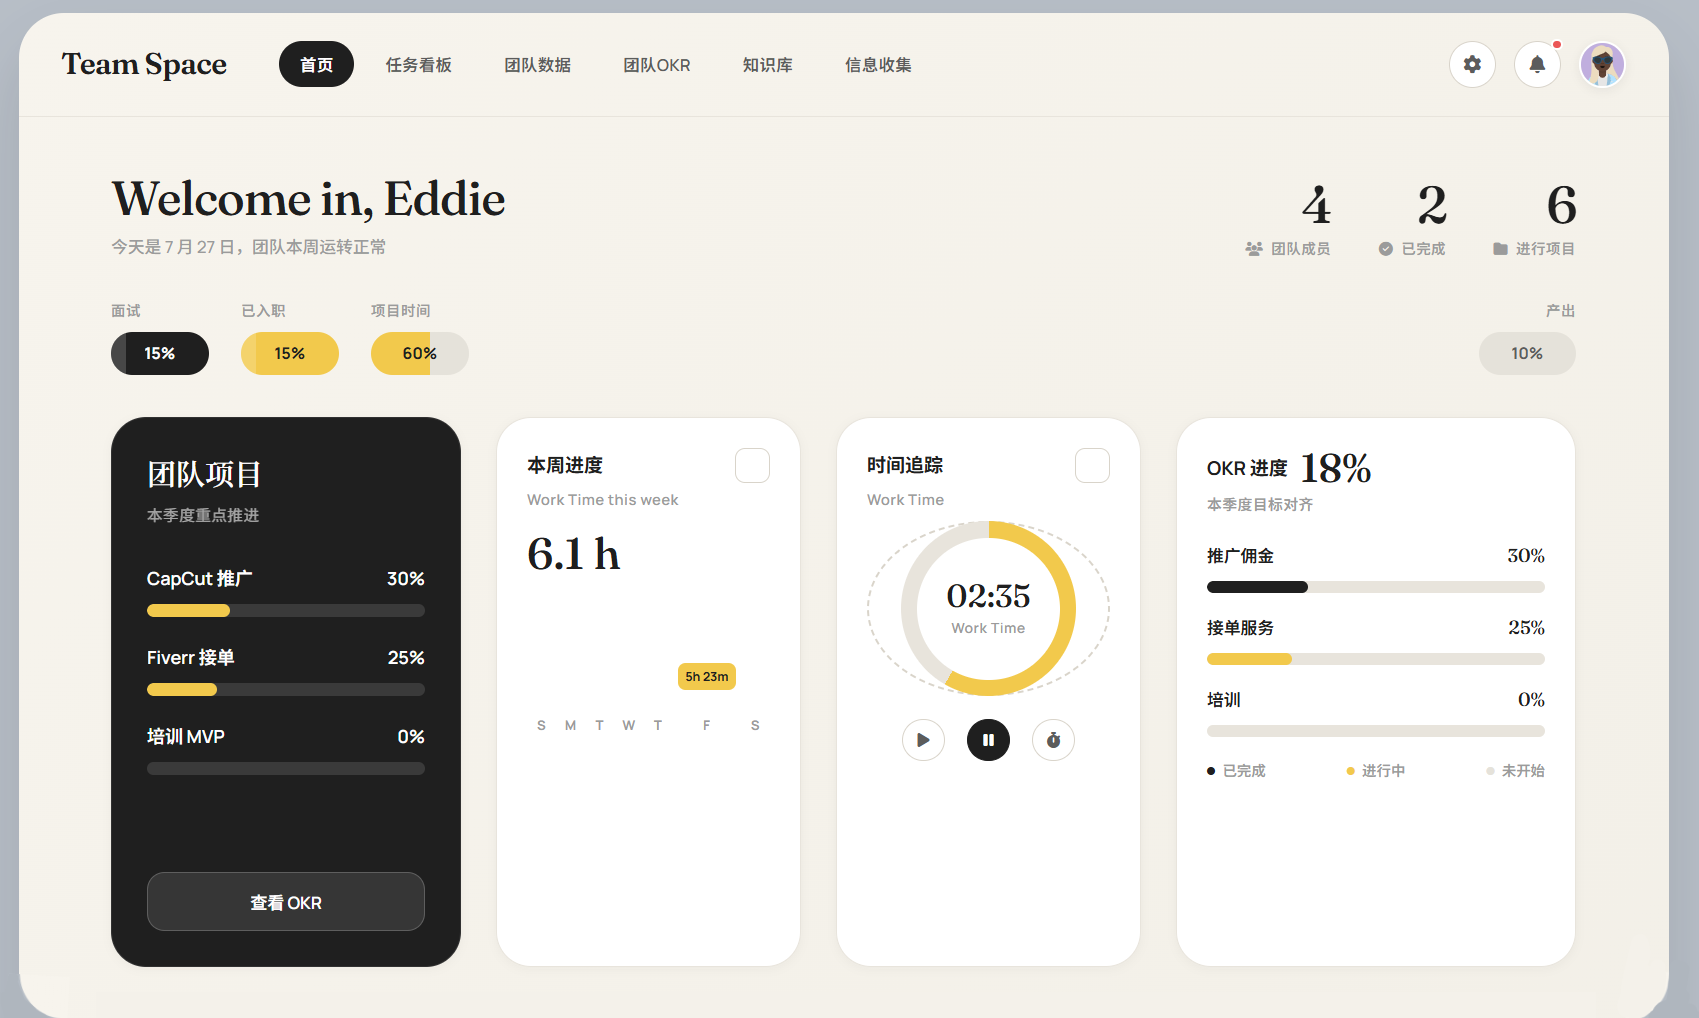
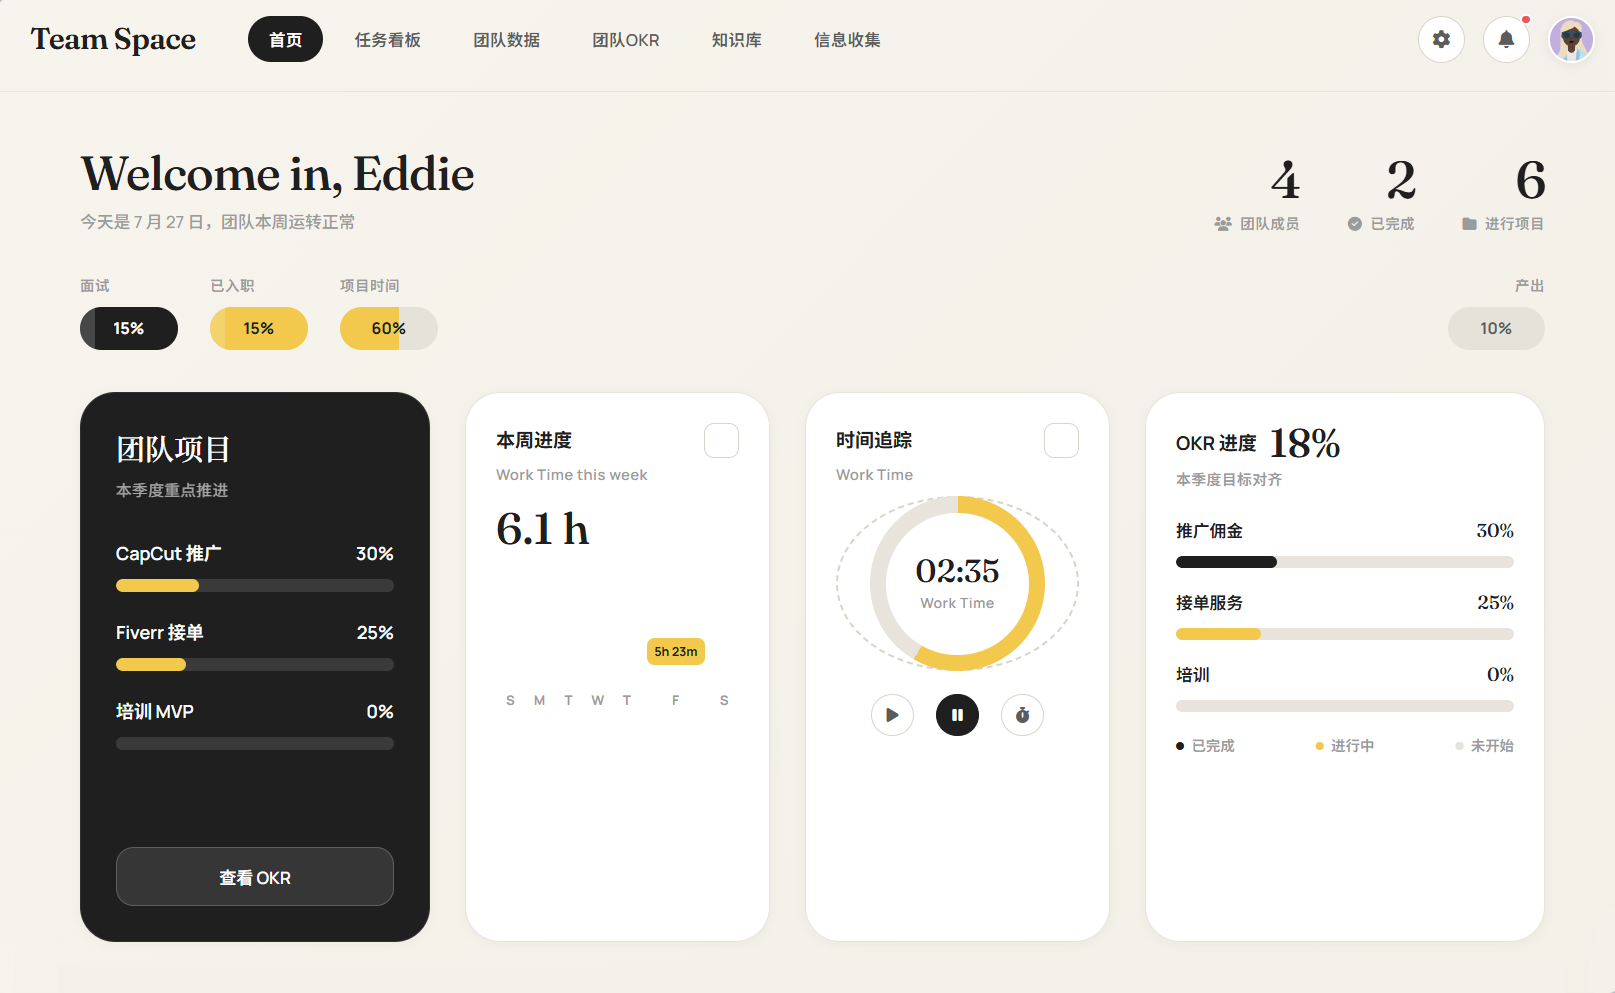
update

diff --git a/src/pages/Design.tsx b/src/pages/Design.tsx
@@ -13,7 +13,7 @@ type Project = {
   accent: string; // tailwind gradient classes for fallback cover
   zh: { tagline: string; desc: string; role: string };
   en: { tagline: string; desc: string; role: string };
-  stack: string[];
+  stack: { zh: string[]; en: string[] };
 };
 
 const PROJECTS: Project[] = [
@@ -33,7 +33,7 @@ const PROJECTS: Project[] = [
       desc: "Income, budget and assets in one calm mobile interface — see where the money goes at a glance.",
       role: "Product design · Front-end · Visual system",
     },
-    stack: ["PWA", "移动端优先", "数据可视化", "响应式"],
+    stack: { zh: ["PWA", "移动端优先", "数据可视化", "响应式"], en: ["PWA", "Mobile-first", "Data viz", "Responsive"] },
   },
   {
     slug: "ieng",
@@ -51,7 +51,7 @@ const PROJECTS: Project[] = [
       desc: "Daily practice turned into a lightweight, stickable product — focused, immersive input and feedback.",
       role: "Product design · Interaction · Front-end",
     },
-    stack: ["PWA", "微交互", "沉浸式", "跨端"],
+    stack: { zh: ["PWA", "微交互", "沉浸式", "跨端"], en: ["PWA", "Micro-interactions", "Immersive", "Cross-platform"] },
   },
   {
     slug: "team",
@@ -69,7 +69,7 @@ const PROJECTS: Project[] = [
       desc: "A task and collaboration hub for small teams — funneling feeds, progress and ownership into one panel.",
       role: "Information architecture · UI · Front-end",
     },
-    stack: ["Web App", "看板", "协作", "组件化"],
+    stack: { zh: ["Web App", "看板", "协作", "组件化"], en: ["Web App", "Kanban", "Collaboration", "Component-based"] },
   },
   {
     slug: "trip-manager",
@@ -87,7 +87,7 @@ const PROJECTS: Project[] = [
       desc: "Break a trip into schedulable days, places and budget — see the whole picture while planning.",
       role: "Prototyping · UX · Front-end",
     },
-    stack: ["Web App", "时间线", "地图", "迭代中"],
+    stack: { zh: ["Web App", "时间线", "地图", "迭代中"], en: ["Web App", "Timeline", "Map", "WIP"] },
   },
   {
     slug: "trip2bki",
@@ -105,7 +105,7 @@ const PROJECTS: Project[] = [
       desc: "A second take on travel product: lighter logging and smoother sharing, probing a different information structure.",
       role: "Concept design · UI exploration · Front-end",
     },
-    stack: ["Web App", "实验性", "轻量", "迭代中"],
+    stack: { zh: ["Web App", "实验性", "轻量", "迭代中"], en: ["Web App", "Experimental", "Lightweight", "WIP"] },
   },
 ];
 
@@ -199,7 +199,7 @@ export default function Design() {
                     <p className="text-sm text-ink-muted leading-relaxed mb-4">{copy.desc}</p>
 
                     <div className="flex flex-wrap gap-1.5 mb-4">
-                      {p.stack.map((s) => (
+                      {p.stack[lang].map((s) => (
                         <span
                           key={s}
                           className="text-[11px] font-medium text-ink-muted bg-surface-alt border border-border px-2.5 py-1 rounded-full"
@@ -269,7 +269,7 @@ export default function Design() {
                   </div>
                   <p className="text-sm text-ink-muted leading-relaxed mb-4">{copy.desc}</p>
                   <div className="flex flex-wrap gap-1.5 mb-4">
-                    {p.stack.map((s) => (
+                    {p.stack[lang].map((s) => (
                       <span
                         key={s}
                         className="text-[11px] font-medium text-ink-muted bg-surface-alt border border-border px-2.5 py-1 rounded-full"

diff --git a/src/components/Header.tsx b/src/components/Header.tsx
@@ -12,8 +12,8 @@ export default function Header() {
     { to: "/", label: t("nav.home") },
     { to: "/writing", label: t("nav.writing") },
     { to: "/music", label: t("nav.music") },
-    { to: "/about", label: t("nav.about") },
     { to: "/design", label: t("nav.design") },
+    { to: "/about", label: t("nav.about") },
   ];
 
   return (

diff --git a/src/components/Footer.tsx b/src/components/Footer.tsx
@@ -8,8 +8,8 @@ export default function Footer() {
     { to: "/", label: t("nav.home") },
     { to: "/writing", label: t("nav.writing") },
     { to: "/music", label: t("nav.music") },
-    { to: "/about", label: t("nav.about") },
     { to: "/design", label: t("nav.design") },
+    { to: "/about", label: t("nav.about") },
   ];
 
   return (
